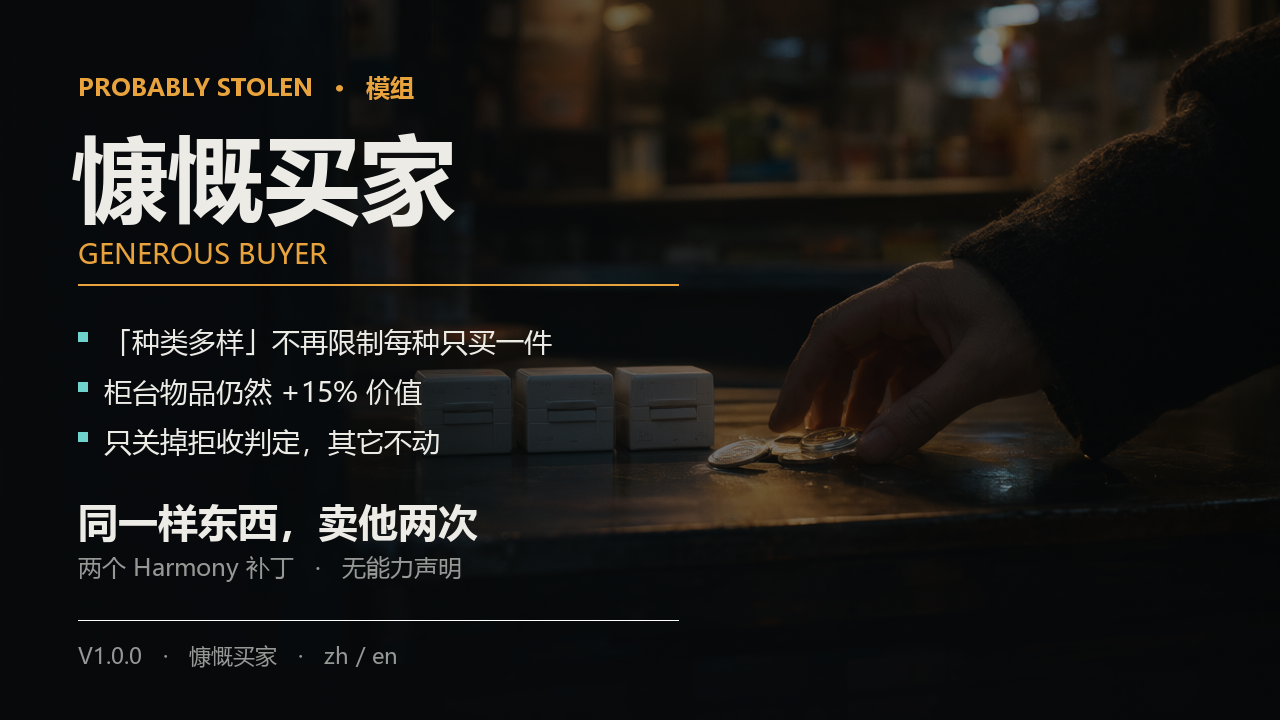
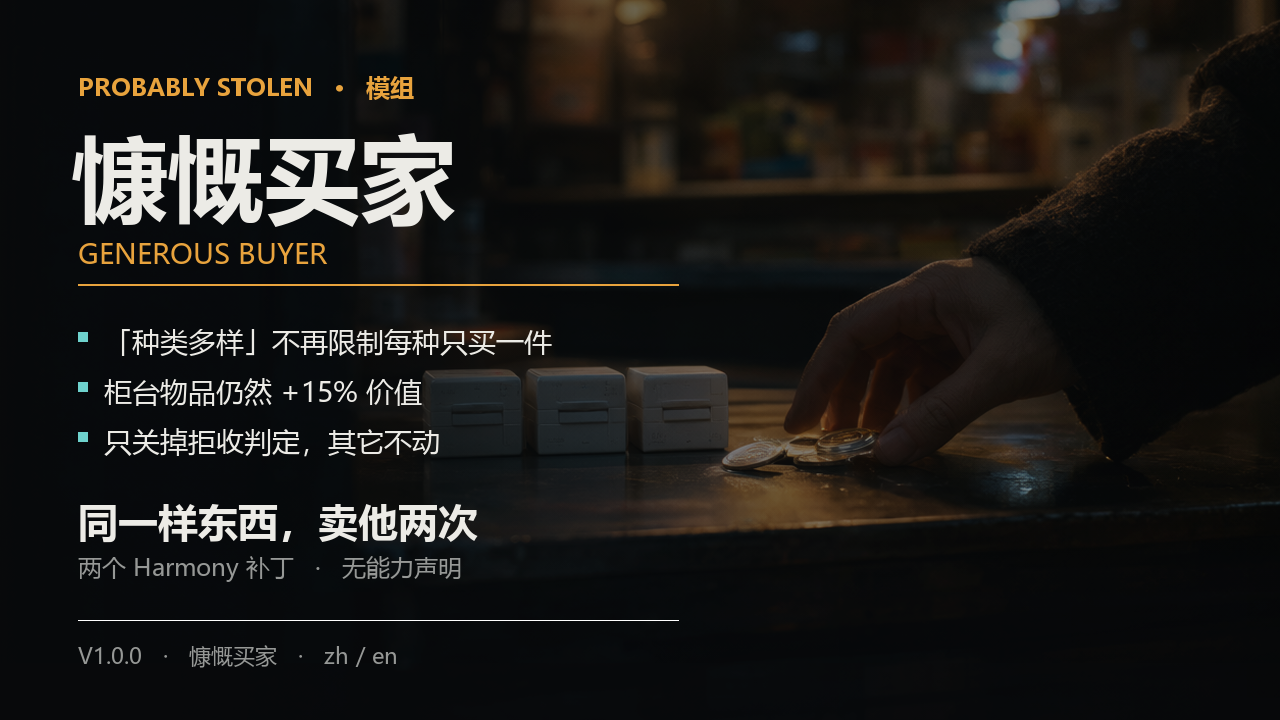
慷慨买家：把「限制条件」标题改成「特殊规则」，封面构图参数固化到脚本默认值

diff --git a/GenerousBuyer/src/VarietyTextPatch.cs b/GenerousBuyer/src/VarietyTextPatch.cs
@@ -12,6 +12,7 @@ namespace GenerousBuyer
     ///
     ///   UI      / ui_nego_tag_variety              "种类多样"        -> "慷慨"
     ///   UI      / ui_nego_no_variety               the old refusal   -> the new explanation
+    ///   UI      / ui_nego_restrictions             "限制条件："      -> "特殊规则："
     ///   Mechanic/ item_feature_variety_buyer_bonus "多样化买家加成"  -> "慷慨买家加成"
     ///
     /// The item feature name is baked into the ItemFeature instance when the customer arrives,
@@ -80,6 +81,11 @@ namespace GenerousBuyer
                 if (key == "ui_nego_no_variety")
                 {
                     return "tag.variety.info";
+                }
+                // The tag row is headed "Restrictions:", which no longer fits a rule that is only a bonus.
+                if (key == "ui_nego_restrictions")
+                {
+                    return "header.restrictions";
                 }
             }
             else if (table == "Mechanic" && key == "item_feature_variety_buyer_bonus")

diff --git a/GenerousBuyer/scripts/make_cover.py b/GenerousBuyer/scripts/make_cover.py
@@ -4,7 +4,7 @@
 默认：refs/gen/keyart.png -> mod/preview.png（另出一张 640x360 到 build/preview_640.png）
 
 --zoom / --dx / --dy 是「重新构图」：先按 zoom 裁一刀再缩回 1280x720，dx/dy 是裁切窗口的像素偏移。
-标题只有 4 个字，左侧留白够用，一般不需要重新构图。
+默认 zoom=1.02 / dx=-290 是这张关键图定稿时的构图：把三只盒子整体推到右侧，给三条要点让位。
 """
 import pathlib
 import sys
@@ -116,7 +116,7 @@ if __name__ == "__main__":
     cover(
         keyart,
         out,
-        zoom=float(flags.get("zoom", 1.0)),
-        dx=int(flags.get("dx", 0)),
+        zoom=float(flags.get("zoom", 1.02)),
+        dx=int(flags.get("dx", -290)),
         dy=int(flags.get("dy", 0)),
     )
